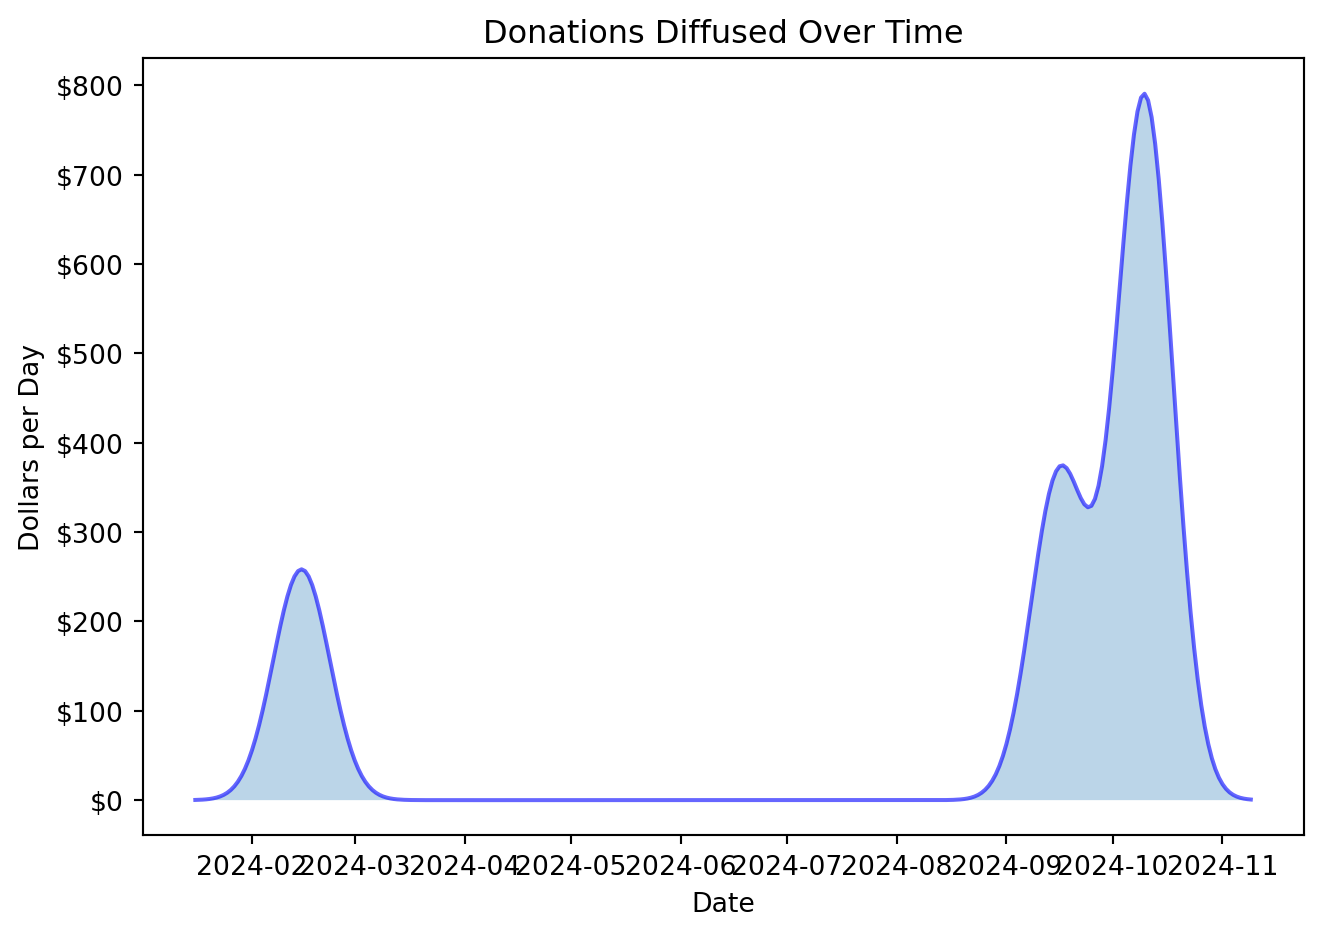
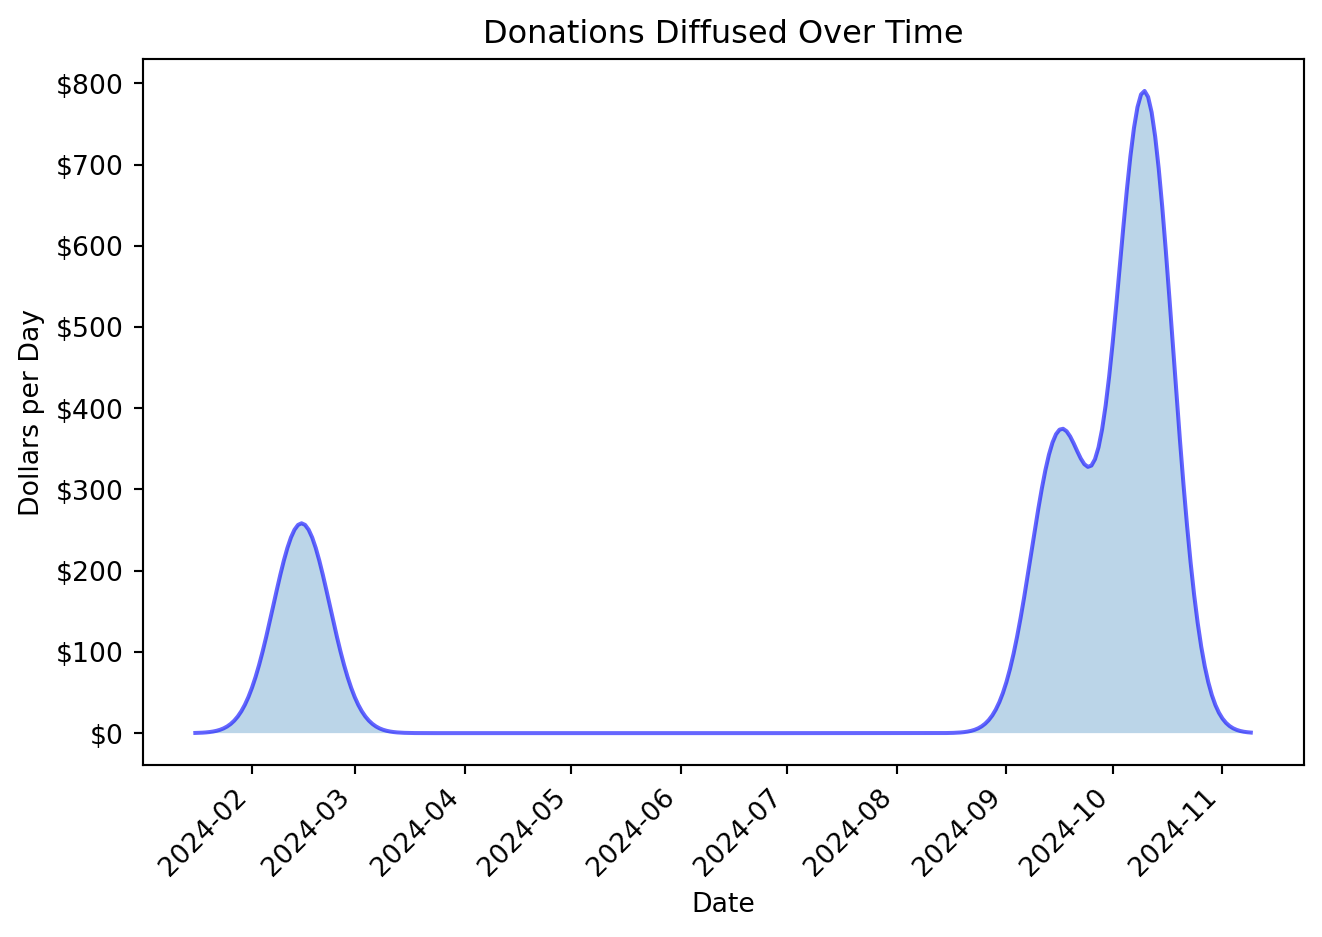
looks good!

diff --git a/hello.html b/hello.html
@@ -97,7 +97,7 @@ pre > code.sourceCode > span > a:first-child::before { text-decoration: underlin
 
 
 <p>Here are some donations</p>
-<div id="6aafaea9" class="cell" data-execution_count="1">
+<div id="0b78070d" class="cell" data-execution_count="1">
 <details class="code-fold">
 <summary>Code</summary>
 <div class="sourceCode cell-code" id="cb1"><pre class="sourceCode python code-with-copy"><code class="sourceCode python"><span id="cb1-1"><a href="#cb1-1" aria-hidden="true" tabindex="-1"></a><span class="im">from</span> quarto_example <span class="im">import</span> Donation, graph_donations</span>
@@ -121,13 +121,9 @@ pre > code.sourceCode > span > a:first-child::before { text-decoration: underlin
 <div class="cell-output cell-output-display">
 <div>
 <figure class="figure">
-<p><img src="hello_files/figure-html/cell-2-output-1.png" width="661" height="468" class="figure-img"></p>
+<p><img src="hello_files/figure-html/cell-2-output-1.png" width="661" height="469" class="figure-img"></p>
 </figure>
 </div>
-</div>
-<div class="cell-output cell-output-stdout">
-<pre><code>Total donations: $28,273.39
-Sum of daily amounts: $28273.39</code></pre>
 </div>
 </div>
 

diff --git a/quarto_example.py b/quarto_example.py
@@ -64,6 +64,7 @@ def graph_donations(
     # Format y-axis as currency
     plt.gca().yaxis.set_major_formatter(plt.FuncFormatter(lambda x, p: f'${x:,.0f}'))
 
+    plt.xticks(rotation=45, ha='right')
     plt.tight_layout()
     plt.show()
 
